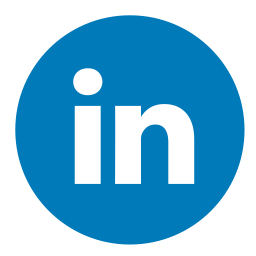
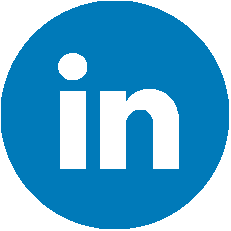
minor changes

Changed region(s): [[0.0, 0.0, 1.0, 1.0], [0.2424, 0.2121, 0.7879, 0.7576]]

diff --git a/index.html b/index.html
@@ -12,6 +12,14 @@
         <div class="header">
             <a id="name" href="index.html"><h1>Jaimin <span>Patel</span></h1></a>
         </div>
+        <div class="media">
+            <a class="icon" href="https://www.flickr.com/photos/149982555@N03/">
+                <img src="images/media/flickr.png">
+            </a>
+            <a class="icon" href="https://www.linkedin.com/in/jaimin-patel-b46bb85a/">
+                <img src="images/media/linkedin.png">
+            </a>
+        </div>
         <div class="nav">
             <div class="first">
                 <a href="resume.html">Résumé</a>
@@ -19,9 +27,9 @@
             <div class="dropdown">
                 <a class="dropbtn" href="portfolio.html">Portfolio</a>
                 <div class="dropdown-content">
-                    <a href="portfolio.html#wrx">2016 WRX</a>
-                    <a href="portfolio.html#ottawa">Ottawa</a>
-                    <a href="portfolio.html#grc">GRC 2017</a>
+                    <a href="#wrx">2016 WRX</a>
+                    <a href="#ottawa">Ottawa</a>
+                    <a href="#grc">GRC 2017</a>
                 </div>
             </div>
         </div>

diff --git a/main.css b/main.css
@@ -7,14 +7,12 @@ body {
     margin-right: 5%;
 }
 .header h1 {
+    float: left;
     display: inline-block;
     color: #262626;
 }
 .header h1 span {
     color: #26619C;
-}
-.menu-bar {   
-    width: 100%;        
 }
 .first a {
     float: left;
@@ -22,13 +20,14 @@ body {
     color: #262626;
     text-align: center;
     font-size: 16px;
-    padding: 12px 16px;
+    padding: 12px;
     text-decoration: none;
 }
 .menu-bar a {
     text-decoration: none;
 }
 .nav {
+    width: 27%;
 }
 .nav a:hover {
     background-color: #26619C;
@@ -41,11 +40,6 @@ body {
     font-size: 16px;
     border: none;
     cursor: pointer;
-}
-#toTop img{
-    right: 0;
-    position: fixed;
-    width: 60px;
 }
 .dropdown {
     position: relative;
@@ -68,10 +62,21 @@ body {
     display: block;
     
 }
-
 .dropdown-content a:hover {
     background-color: #26619C;
 }
 .dropdown:hover .dropdown-content {
     display: block;
+}
+.media {
+    padding-top: 2%;
+    width: 79.5%;
+    display: inline-block;
+    align-items: center;
+}
+.icon img{
+    float: right;
+    width: 5%;
+    height: 5%;
+    padding-right: 1%;
 }

diff --git a/portfolio.css b/portfolio.css
@@ -17,11 +17,14 @@ body {
     color: #262626;
     text-align: center;
     font-size: 16px;
-    padding: 12px 16px;
+    padding: 12px;
     text-decoration: none;
 }
 .menu-bar a {
     text-decoration: none;
+}
+.nav {
+    width: 27%;
 }
 .nav a:hover {
     background-color: #26619C;

diff --git a/portfolio.html b/portfolio.html
@@ -22,8 +22,6 @@
                 <img src="images/media/linkedin.png">
             </a>
         </div>
-        <br>
-        <br>
         <div class="nav">
             <div class="first">
                 <a href="resume.html">Résumé</a>
